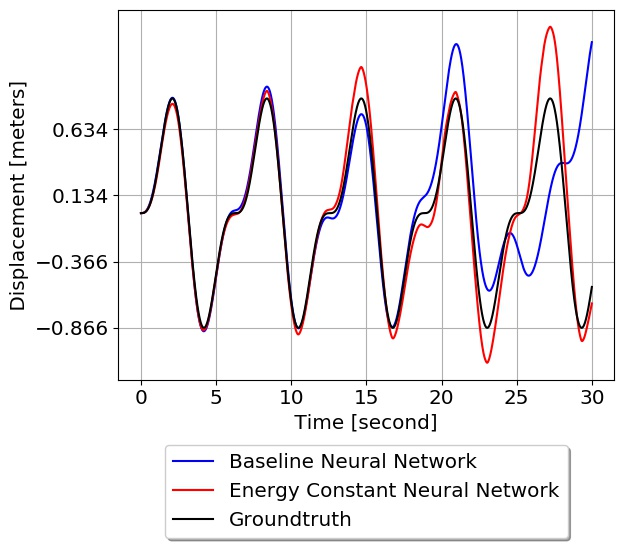
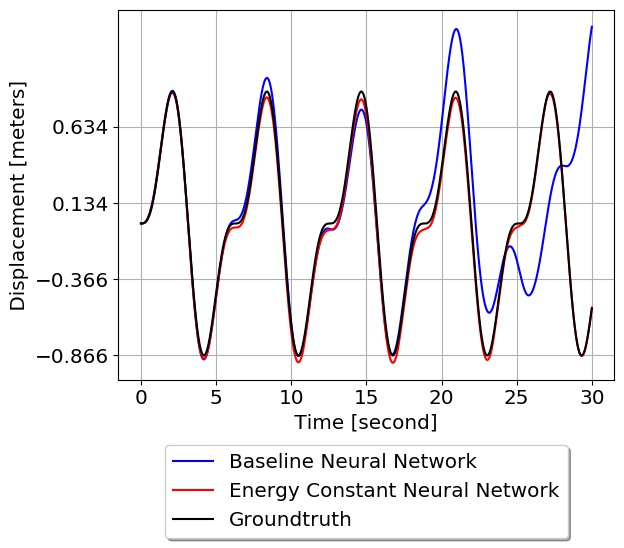
done external force training. TODO: polish post process figure

diff --git a/2_external_force/test_data.py b/2_external_force/test_data.py
@@ -1,6 +1,6 @@
 import matplotlib.pyplot as plt
 import numpy as np 
-from data import get_disp, get_velo, get_acce, get_energy_input
+from data import get_disp, get_velo, get_acce, get_energy_input, get_force
 p0 = 1 
 k = 1
 t = np.linspace(0, 90, 1000)
@@ -11,11 +11,13 @@ disp = get_disp(p0, k, t, omega, omega_n)
 velo = get_velo(p0, k, t, omega, omega_n)
 acce = get_acce(p0, k, t, omega, omega_n)
 ener = [get_energy_input(p0, k, t_, omega, omega_n) for t_ in t]
+forc = get_force(p0, t, omega)
 
-plt.plot(t,disp,label='disp')
+# plt.plot(t,disp,label='disp')
 # plt.plot(t,velo,label='velo')
 # plt.plot(t,acce,label='acce')
 plt.plot(t,ener,label='ener')
+# plt.plot(t,forc,label='forc')
 plt.legend()
 plt.show()
 

diff --git a/2_external_force/data.py b/2_external_force/data.py
@@ -34,7 +34,7 @@ def get_force(p0, t, omega):
 def get_energy_input(p0, k, t, omega, omega_n, tol = 1e-6):
 	energy_input, error = integrate.quad(lambda x: 
 		get_force(p0, t, omega) * get_velo(p0, k, t, omega, omega_n), 
-		0, t
+		t - np.pi*2/omega , t
 		)
 	if abs(error) > tol:
 		print("integrate error [{}] greater than tol!".format(error))
